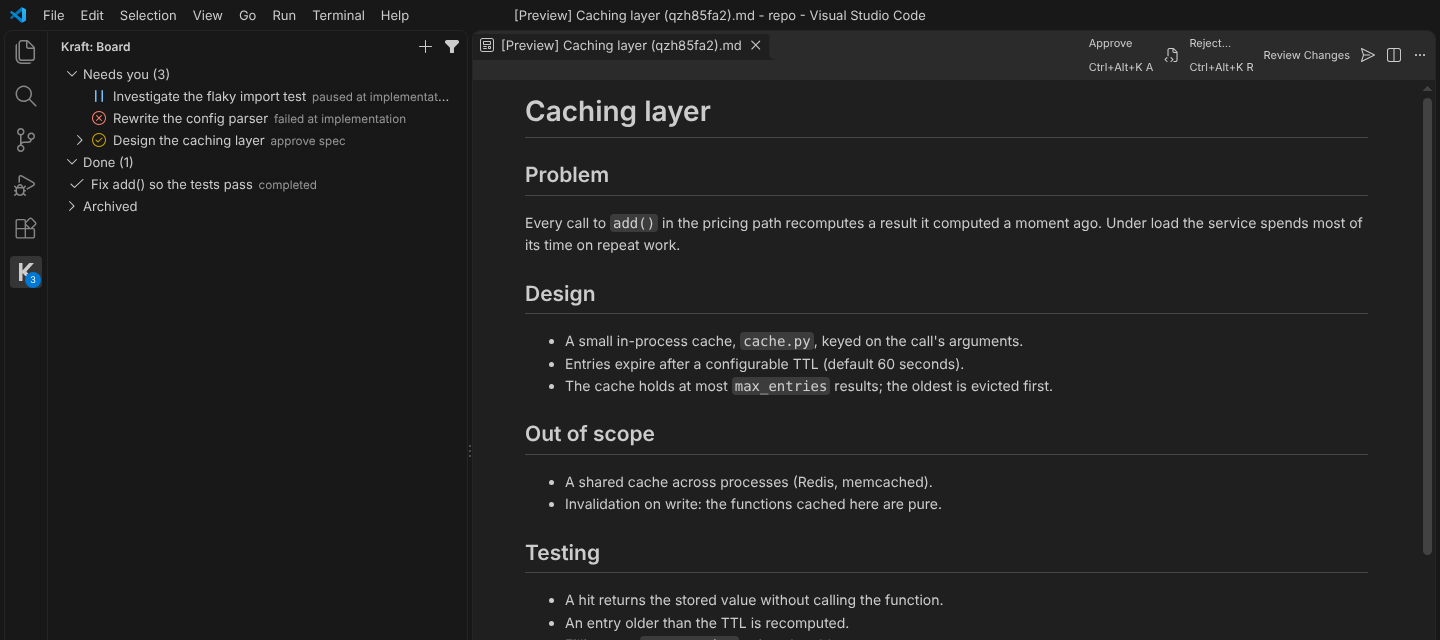
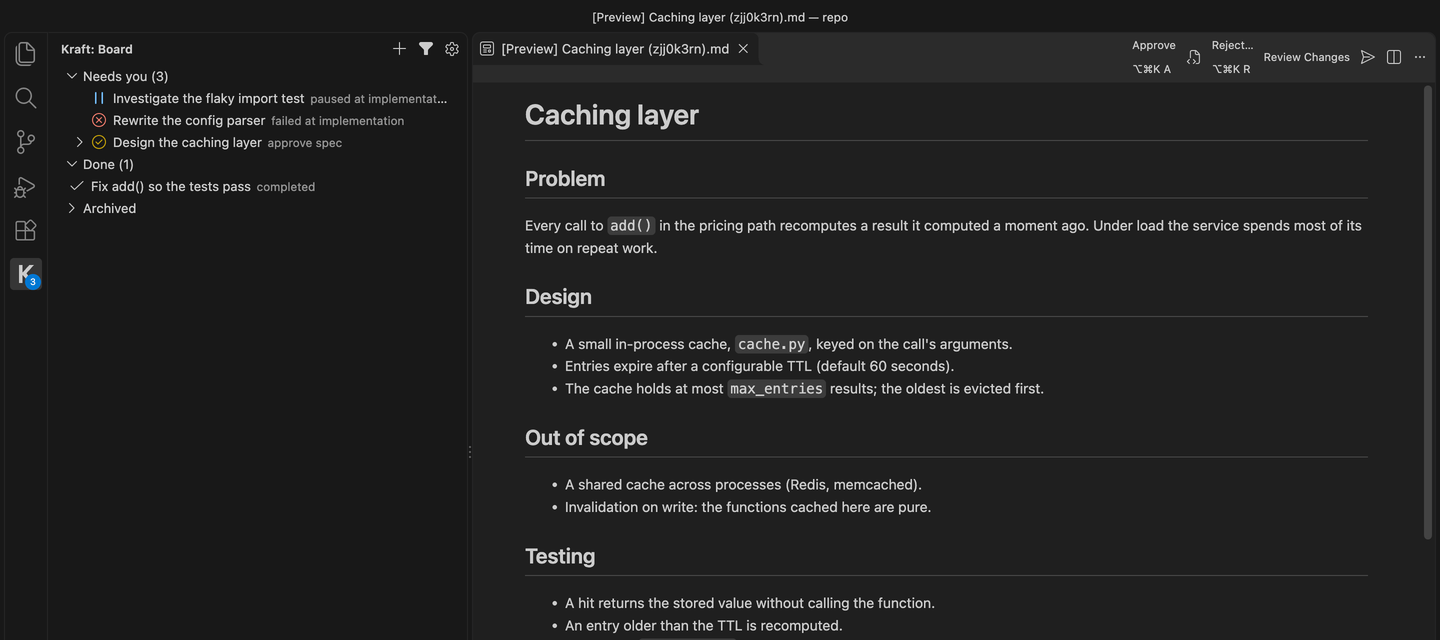
VS Code: Open Config lists Kraft's config files and chains (#1073)
* VS Code: Open Config lists Kraft's config files and chains

The extension checks, completes and previews files under $KRAFT_HOME/config,
but nothing in it opened them: you had to know the path. A gear on the board's
title bar (and Kraft: Open Config… in the palette) lists the files that exist,
configuration then templates, each with a line on what it holds, and opens the
one picked; the last entry opens the folder in a new window.

* VS Code: retake the board and gate screenshots with the Open Config gear

* VS Code Open Config: skip block-scalar descriptions, name unreadable folders

A chain's `description: >` showed ">" in the picker; the description parser
moves to core/scope.ts with rows for it. A config folder that exists but cannot
be read now says so instead of "No Kraft config yet".

* Docs: code-format the <title> placeholders on the VS Code reference page

The renderer read the bare <title> as an HTML tag and swallowed the page up
to the next heading, so "Opening the config", "Settings" and "Related" were
built without anchors; the Unreleased page's link to the new section failed
the link check.

---------

diff --git a/vscode/src/config/open.ts b/vscode/src/config/open.ts
@@ -1,0 +1,42 @@
+import { readdir, readFile } from "node:fs/promises";
+import { homedir } from "node:os";
+import { join } from "node:path";
+import * as vscode from "vscode";
+import { ABOUT, chainDescriptionOf, configListing } from "../core/scope";
+
+type Pick = vscode.QuickPickItem & { open?: string };
+
+const tilde = (path: string) => (path.startsWith(homedir()) ? `~${path.slice(homedir().length)}` : path);
+const separator = (label: string): Pick => ({ label, kind: vscode.QuickPickItemKind.Separator });
+
+const chainDescription = async (path: string) => chainDescriptionOf(await readFile(path, "utf8").catch(() => ""));
+
+export function registerOpenConfig(context: vscode.ExtensionContext, templatesDir: string) {
+  context.subscriptions.push(vscode.commands.registerCommand("kraft.openConfig", async () => {
+    let names: string[];
+    try {
+      const chains = await readdir(join(templatesDir, "chains")).catch(() => []);
+      names = [...(await readdir(templatesDir)), ...chains.map((c) => `chains/${c}`)];
+    } catch (e) {
+      if ((e as NodeJS.ErrnoException).code !== "ENOENT") return void vscode.window.showErrorMessage(`Could not read ${templatesDir}: ${(e as Error).message}`);
+      const start = "Start Kraft";
+      const pick = await vscode.window.showInformationMessage(`No Kraft config at ${templatesDir} yet. Kraft writes it the first time it starts.`, start);
+      if (pick === start) await vscode.commands.executeCommand("kraft.startDaemon");
+      return;
+    }
+    const { configuration, templates } = configListing(names);
+    const section = (label: string, rows: Pick[]) => (rows.length ? [separator(label), ...rows] : []);
+    const items: Pick[] = [
+      ...section("Configuration", configuration.map((rel) => ({ label: rel, description: ABOUT[rel], iconPath: new vscode.ThemeIcon("gear"), open: rel }))),
+      ...section("Templates", await Promise.all(templates.map(async (rel): Promise<Pick> => rel === "library.yaml"
+        ? { label: rel, description: ABOUT[rel], iconPath: new vscode.ThemeIcon("library"), open: rel }
+        : { label: rel.slice("chains/".length, -".yaml".length), description: await chainDescription(join(templatesDir, rel)), iconPath: new vscode.ThemeIcon("list-ordered"), open: rel }))),
+      separator(""),
+      { label: "Open Config Folder in New Window", description: tilde(templatesDir), iconPath: new vscode.ThemeIcon("folder-opened") },
+    ];
+    const pick = await vscode.window.showQuickPick(items, { title: "Kraft Config", placeHolder: "Open a config file or chain", matchOnDescription: true });
+    if (!pick) return;
+    if (pick.open) await vscode.window.showTextDocument(vscode.Uri.file(join(templatesDir, pick.open)));
+    else await vscode.commands.executeCommand("vscode.openFolder", vscode.Uri.file(templatesDir), { forceNewWindow: true });
+  }));
+}

diff --git a/vscode/src/core/scope.ts b/vscode/src/core/scope.ts
@@ -14,5 +14,33 @@ export function configFile(fsPath: string, templatesDir: string): string | undef
   return FILES.has(rel) || CHAIN.test(rel) ? rel : undefined;
 }
 
+/** What each configuration file holds, in the order Open Config lists them: the often-edited first. */
+export const ABOUT: Readonly<Record<string, string>> = {
+  "policy.yaml": "Caps, budgets, retries and concurrency",
+  "harnesses.yaml": "Agent profiles, and which one runs each task",
+  "repos.yaml": "Connected repos: commands, env and sandbox",
+  "intake.yaml": "Auto-intake from beads, and scheduled work",
+  "notify.yaml": "Webhook notifications",
+  "update.yaml": "Update channel and when to install",
+  "access.yaml": "Web UI address, port and password",
+  "sandbox.yaml": "Sandbox runtime, image and credentials",
+  "theme.yaml": "The web UI's look",
+  "detectors.yaml": "How a connect finds a repo's commands",
+  "addons.yaml": "Add-on collections and installed add-ons",
+  "library.yaml": "Nodes, tasks and steps the chains extend",
+};
+
+/** The config files present in `names` (relative paths, as `configFile` returns them), split as
+ *  Kraft splits them: library.yaml and chains/ are templates, the rest is configuration. */
+export function configListing(names: readonly string[]): { configuration: string[]; templates: string[] } {
+  const present = new Set(names.filter((n) => FILES.has(n) || CHAIN.test(n)));
+  const known = Object.keys(ABOUT).filter((n) => present.has(n));
+  const chains = [...present].filter((n) => CHAIN.test(n)).sort();
+  return { configuration: known.filter((n) => !isLibraryFile(n)), templates: [...known.filter(isLibraryFile), ...chains] };
+}
+
+/** A chain file's own top-level `description:`, when it is on that line; a block scalar (`>`, `|`) is not. */
+export const chainDescriptionOf = (text: string) => text.match(/^description:[ \t]*(?![ \t|>])["']?(.+?)["']?[ \t]*$/m)?.[1];
+
 export const schemaFor = (relative: string) => (relative.startsWith("chains/") ? "chain.schema.json" : relative.replace(/\.yaml$/, ".schema.json"));
 export const isLibraryFile = (relative: string) => relative === "library.yaml" || relative.startsWith("chains/");

diff --git a/vscode/test/unit/scope.test.ts b/vscode/test/unit/scope.test.ts
@@ -1,5 +1,5 @@
 import { describe, expect, it } from "vitest";
-import { configFile, isLibraryFile, schemaFor } from "../../src/core/scope";
+import { ABOUT, chainDescriptionOf, configFile, configListing, FILES, isLibraryFile, schemaFor } from "../../src/core/scope";
 
 const T = "/home/u/.kraft/config";
 
@@ -36,4 +36,25 @@ it("knows which files the library lint covers", () => {
   expect(isLibraryFile("chains/a.yaml")).toBe(true);
   expect(isLibraryFile("library.yaml")).toBe(true);
   expect(isLibraryFile("policy.yaml")).toBe(false);
+});
+
+describe("configListing", () => {
+  it("lists configuration in ABOUT's order and templates as library.yaml then chains by name, dropping what is not config", () => {
+    expect(configListing(["repos.yaml", "chains/quick-task.yaml", "other.yaml", "library.yaml", "policy.yaml", "chains/default.yaml", "chains/Bad.yaml"]))
+      .toEqual({ configuration: ["policy.yaml", "repos.yaml"], templates: ["library.yaml", "chains/default.yaml", "chains/quick-task.yaml"] });
+  });
+
+  it("describes every file configFile accepts", () => {
+    expect([...FILES].filter((f) => !ABOUT[f])).toEqual([]);
+  });
+});
+
+describe("chainDescriptionOf", () => {
+  it.each([
+    ["plain", "id: x\ndescription: Spec, plan, build\n", "Spec, plan, build"],
+    ["quoted", "description: \"Quick: no gates\"\n", "Quick: no gates"],
+    ["indented is a node's, not the chain's", "nodes:\n  - id: a\n    description: inner\n", undefined],
+    ["block scalar", "description: >\n  folded text\n", undefined],
+    ["none", "id: x\n", undefined],
+  ])("%s", (_, text, want) => expect(chainDescriptionOf(text)).toBe(want));
 });

diff --git a/vscode/src/extension.ts b/vscode/src/extension.ts
@@ -19,6 +19,7 @@ import { Store, wsSocket } from "./core/store";
 import { ThreadCache } from "./core/threadCache";
 import { hasDrafts } from "./core/threads";
 import { registerConfigChecks } from "./config/check";
+import { registerOpenConfig } from "./config/open";
 import { registerResolved } from "./config/resolved";
 import { registerSchemas } from "./config/schema";
 import { registerGates } from "./gates";
@@ -167,6 +168,7 @@ export async function activate(context: vscode.ExtensionContext): Promise<KraftA
   registerDocs(context, store, api, inScope);
   registerPalette(context, inScope, reveal);
   registerSearch(context, api, reveal);
+  registerOpenConfig(context, loc.templatesDir);
   registerFileWork(context, { api, store, reveal, refusal: () => fileRefusal(state(), api.base), runDir: () => runDir, scope: scopeDeps });
   context.subscriptions.push(
     status,

diff --git a/vscode/test/unit/manifest.test.ts b/vscode/test/unit/manifest.test.ts
@@ -25,6 +25,7 @@ it.each([
   ["view/title", "kraft.fileWork", "view == kraft.board && !kraft.readOnly"],
   ["view/title", "kraft.toggleAllRepos", "view == kraft.board && !kraft.allRepos"],
   ["view/title", "kraft.showThisRepo", "view == kraft.board && kraft.allRepos"],
+  ["view/title", "kraft.openConfig", "view == kraft.board"],
   ["commandPalette", "kraft.toggleAllRepos", "!kraft.allRepos"],
   ["commandPalette", "kraft.showThisRepo", "kraft.allRepos"],
   ["commandPalette", "kraft.fileWork", "!kraft.readOnly"],

diff --git a/docsite/content/5.reference/11.vscode-extension.md b/docsite/content/5.reference/11.vscode-extension.md
@@ -120,16 +120,31 @@ notification says "3 items need you" instead, with **Next Gate** when a gate is
 among them and **Show Board** to reach the rest.
 
 Approving a gate whose document you have not opened opens it instead ("Read the
-spec on <title> first: the document is open."). A message then says what was
-approved ("Approved: <title> · approve spec"), and where the item went when
+spec on `<title>` first: the document is open."). A message then says what was
+approved ("Approved: `<title>` · approve spec"), and where the item went when
 Kraft already knows.
 
 A gate that is followed by a merge or a push asks first ("Approve and merge
-<title> into the target branch?", with an **Approve and Merge** or **Approve and
+`<title>` into the target branch?", with an **Approve and Merge** or **Approve and
 Push** button), whether you approve from the gate or by **Submit Review** with
 the Approve outcome; every other gate is one click. Kraft sends no flag for
 this, so the extension reads the item's chain: a `merge` or `push` node or task
 between this gate and the next.
+
+## Opening the config
+
+_Added in next_
+
+**Open Config…**, the gear in the board's title bar or **Kraft: Open Config…**
+in the Command Palette, lists the files in `$KRAFT_HOME/config` that exist,
+each with a line on what it holds: configuration first (`policy.yaml`,
+`harnesses.yaml`, `repos.yaml` and the rest), then templates (`library.yaml`
+and each chain by its id). Typing matches the file names and those lines, so
+`budget` finds `policy.yaml`.
+
+Pick one to open it; a chain opens with **Show Resolved Chain** above its first
+line. The last entry opens the whole folder in
+a new window. It works in Restricted Mode too: it only opens files.
 
 ## Settings
 

diff --git a/vscode/README.md b/vscode/README.md
@@ -107,6 +107,9 @@ is open.
 
 ![policy.yaml with an unknown severity flagged by the running Kraft](media/screenshot-config.png)
 
+The gear on the board's title bar, **Open Config…**, lists Kraft's config files
+and chains with a line on what each holds, and opens the one you pick.
+
 Kraft's config files under `$KRAFT_HOME/config` (`policy.yaml`,
 `harnesses.yaml`, `chains/*.yaml` and the rest) are checked by the running
 Kraft as you edit, with the line at fault flagged. With
